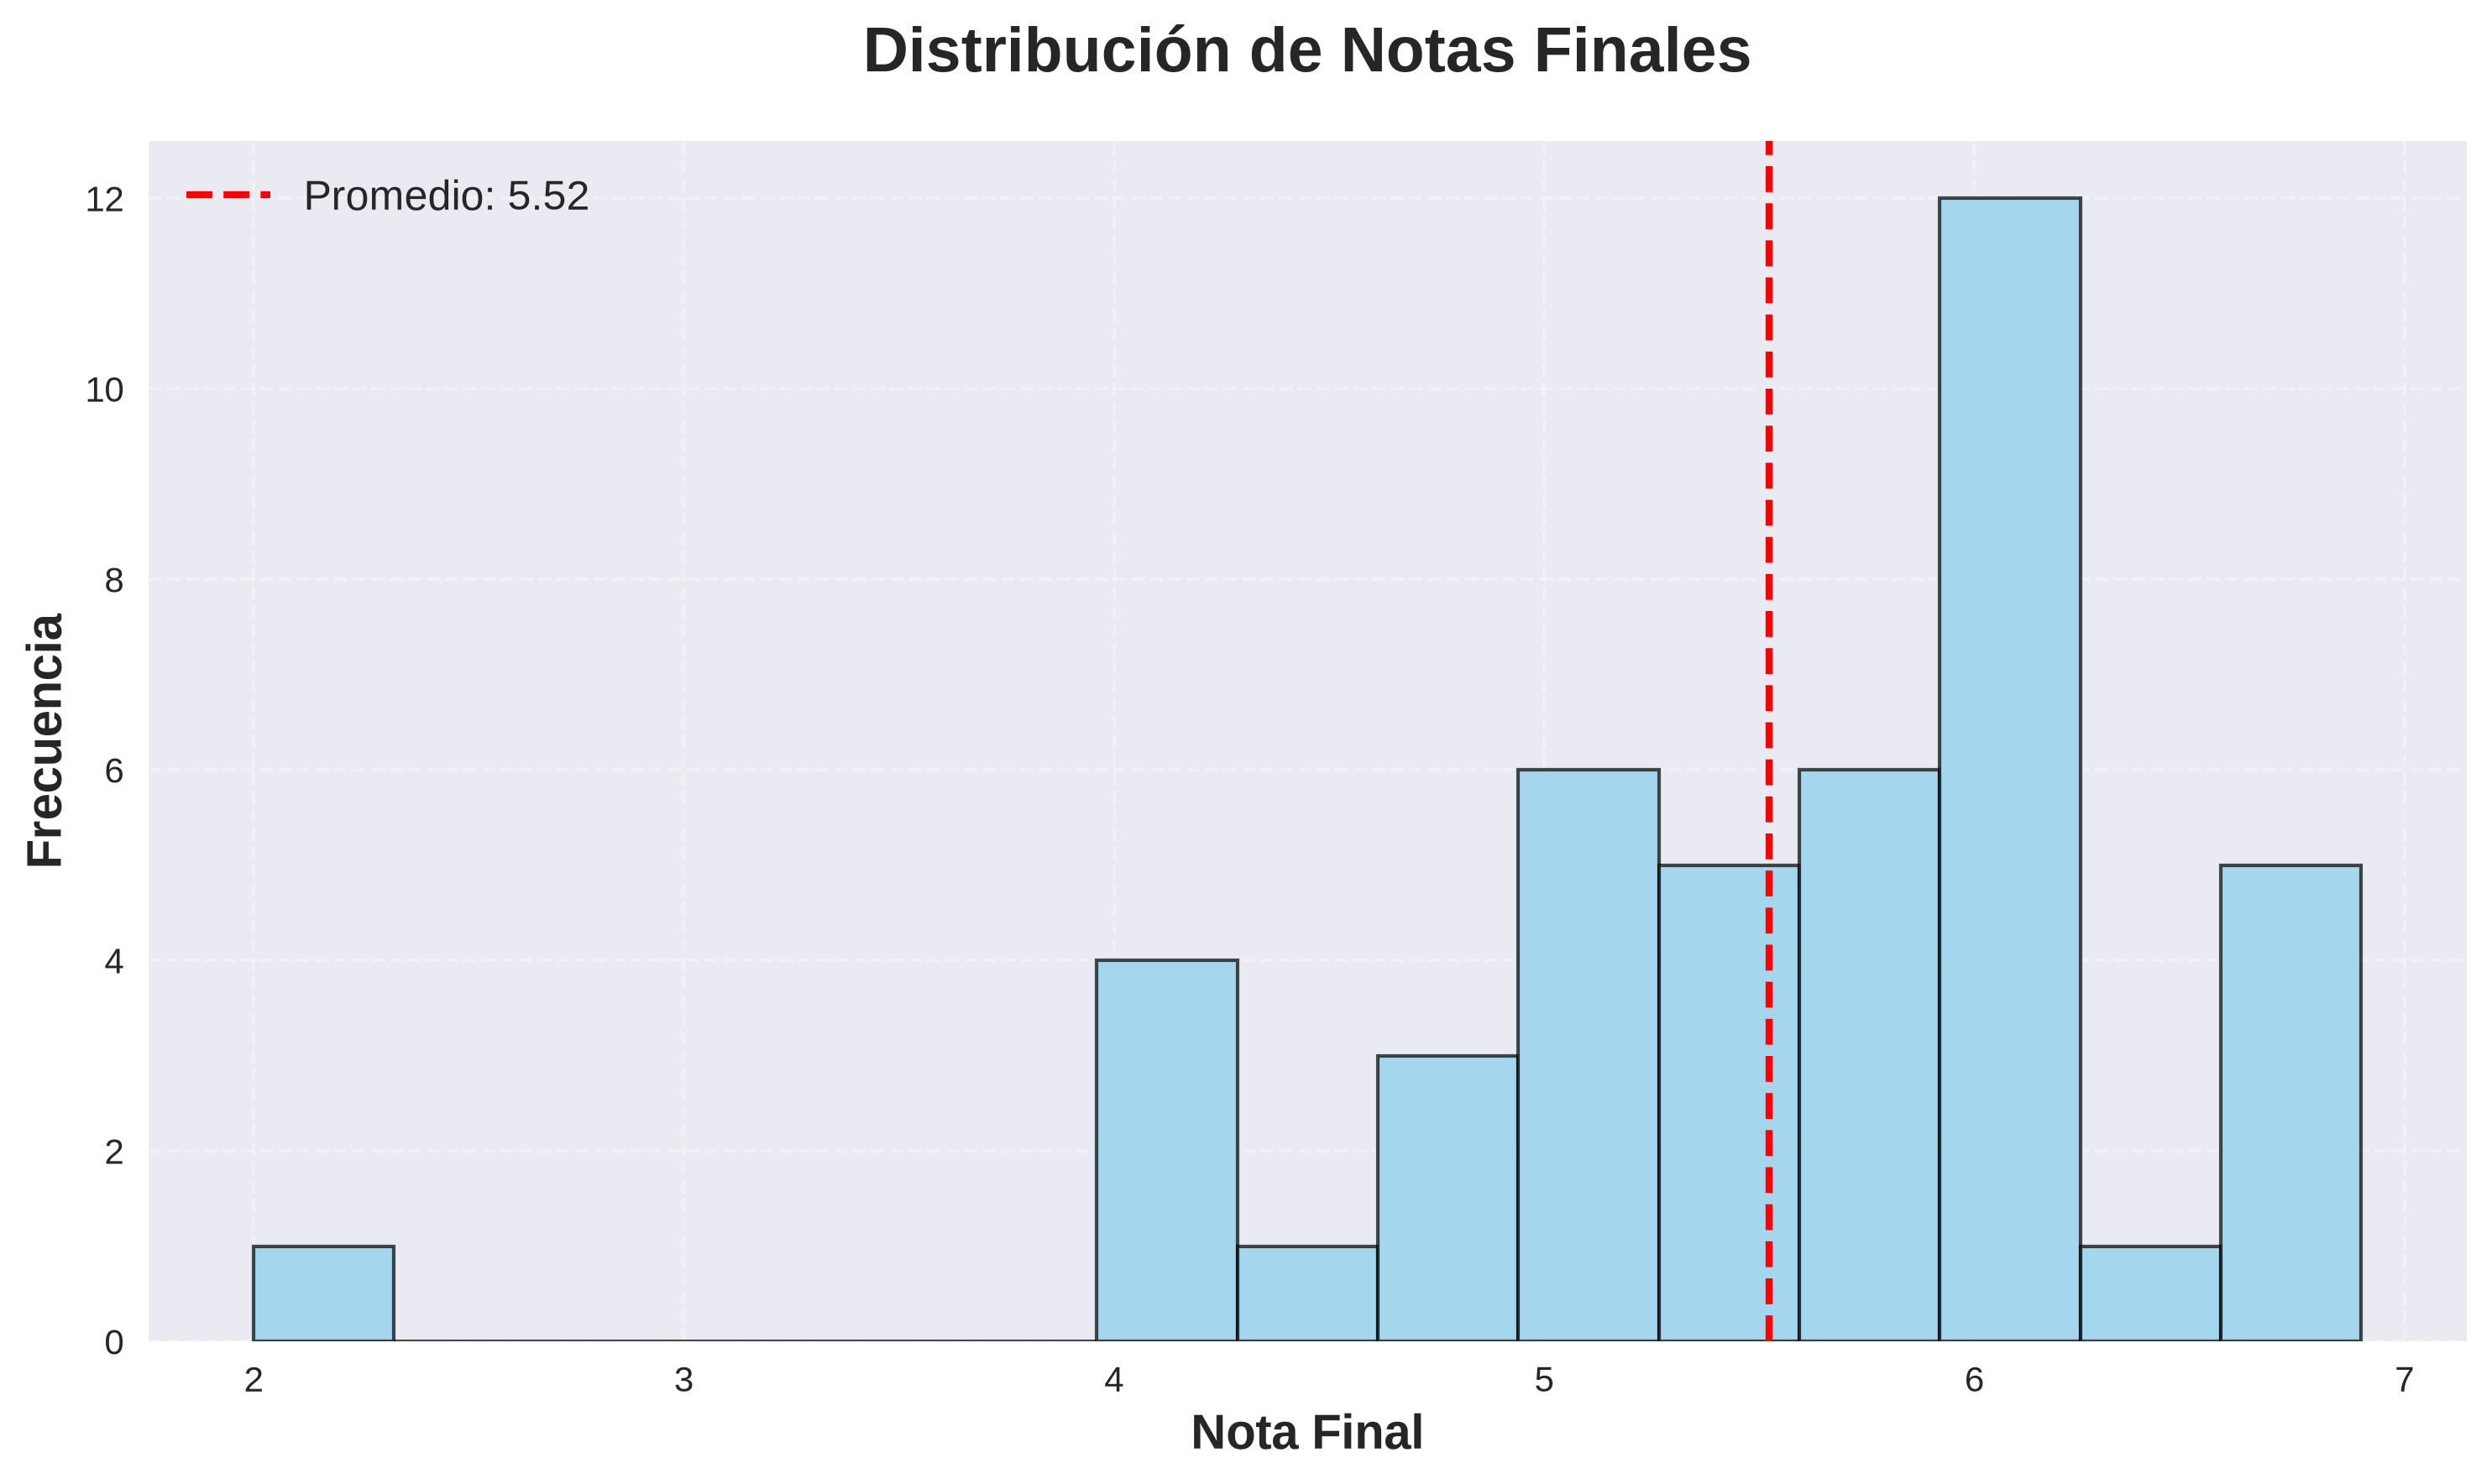
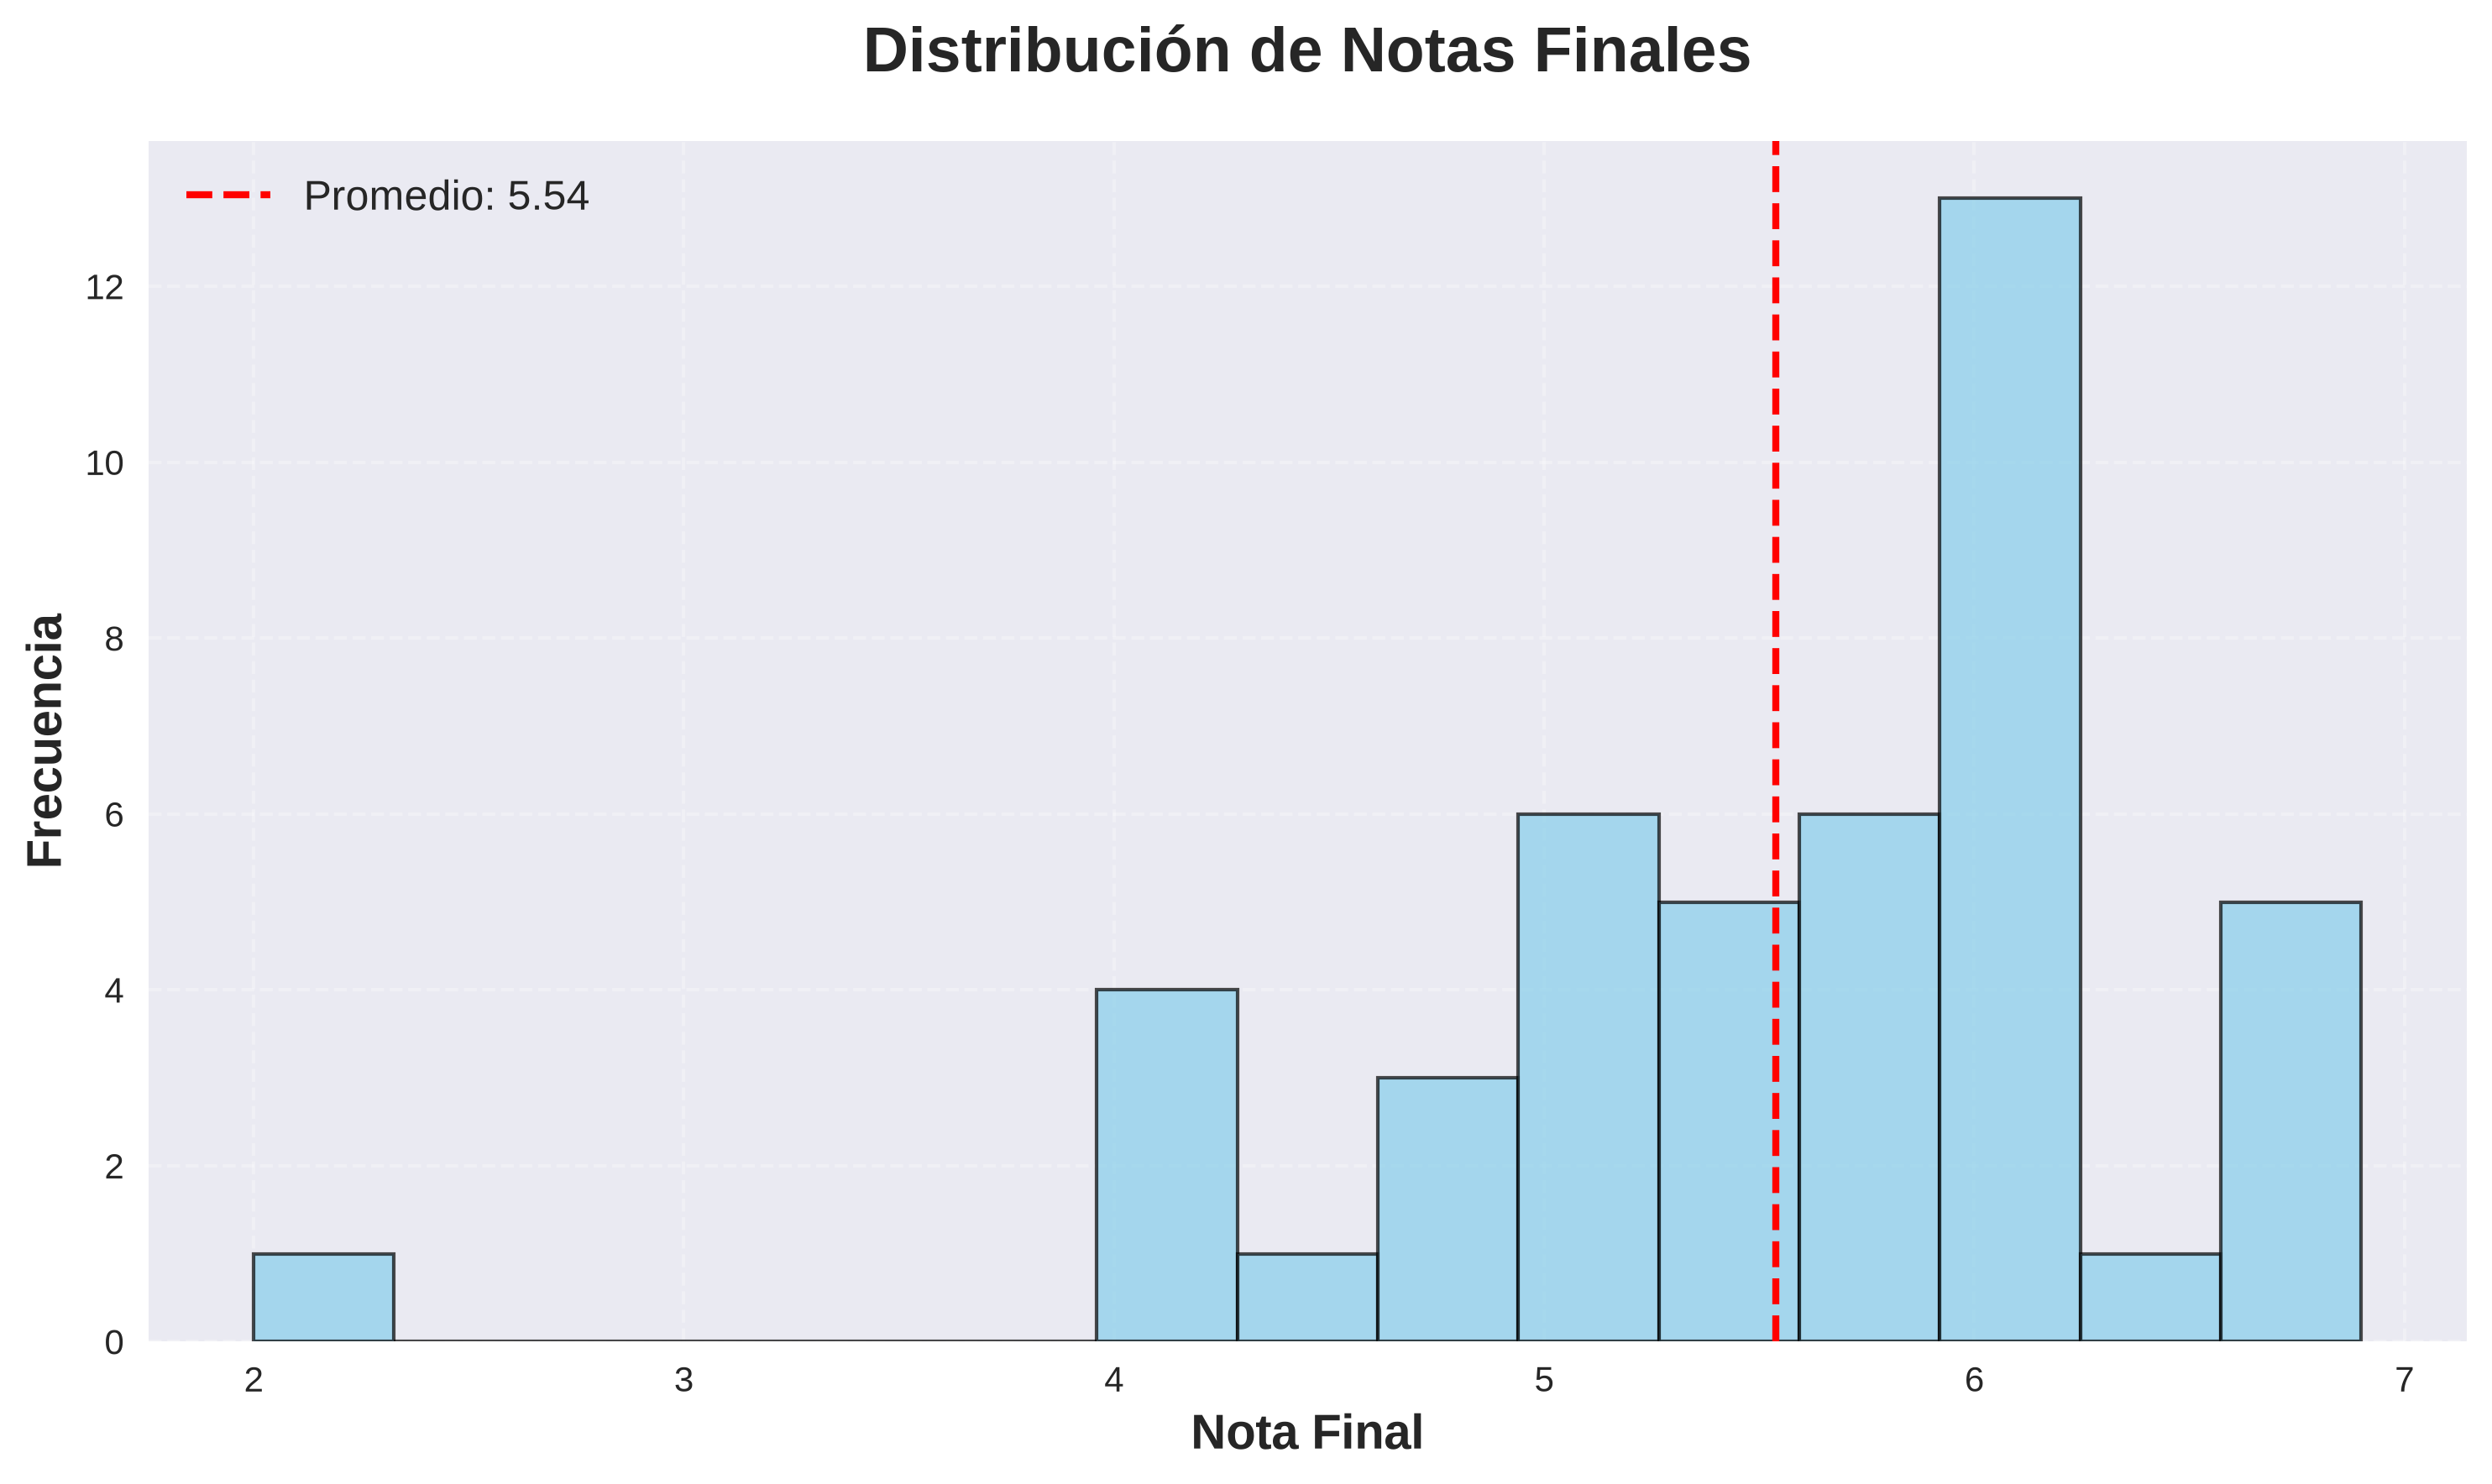
auto: actualizar notas y gráficos

diff --git a/dashboard/ramos_con_detalles.js b/dashboard/ramos_con_detalles.js
@@ -1,2 +1,2 @@
 /* Archivo generado automáticamente por el scraper. No editar a mano. */
-window.ramosData = {"ramos_con_detalles": [{"nombre": "HACIA UNA NUEVA CULTURA EMPRESARIAL", "nota_final": 5.9, "id_curso": "01005356", "componentes": [{"nombre": "Parcial", "porcentaje": "30%", "nota": 6.0}, {"nombre": "Parcial", "porcentaje": "30%", "nota": 7.0}, {"nombre": "Parcial", "porcentaje": "40%", "nota": 5.0}], "semestre": "Semestre 2 (Pre) 2025"}, {"nombre": "MODULO INTEGRADOR DE LICENCIATURA (PRACT", "nota_final": 6.1, "id_curso": "01003110", "componentes": [{"nombre": "Parcial", "porcentaje": "30%", "nota": 5.8}, {"nombre": "Parcial", "porcentaje": "30%", "nota": 6.4}, {"nombre": "Parcial", "porcentaje": "40%", "nota": 6.2}], "semestre": "Semestre 2 (Pre) 2025"}, {"nombre": "CONTABILIDAD Y FINANZAS", "nota_final": 4.0, "id_curso": "01003111", "componentes": [{"nombre": "Parcial", "porcentaje": "20%", "nota": 4.0}, {"nombre": "Parcial", "porcentaje": "20%", "nota": 5.9}, {"nombre": "Parcial", "porcentaje": "30%", "nota": 2.5}, {"nombre": "Parcial", "porcentaje": "30%", "nota": 4.1}], "semestre": "Semestre 2 (Pre) 2025"}, {"nombre": "RECURSOS HUMANOS Y LEGISLACIÓN", "nota_final": 6.2, "id_curso": "01003120", "componentes": [{"nombre": "Parcial", "porcentaje": "20%", "nota": 5.4}, {"nombre": "Parcial", "porcentaje": "25%", "nota": 6.5}, {"nombre": "Parcial", "porcentaje": "25%", "nota": 6.0}, {"nombre": "Parcial", "porcentaje": "30%", "nota": 6.6}], "semestre": "Semestre 2 (Pre) 2025"}, {"nombre": "INGENIERIA DE SOFTWARE I", "nota_final": 6.1, "id_curso": "01003113", "componentes": [{"nombre": "Parcial", "porcentaje": "10%", "nota": 6.3}, {"nombre": "Parcial", "porcentaje": "10%", "nota": 6.2}, {"nombre": "Parcial", "porcentaje": "20%", "nota": 7.0}, {"nombre": "Parcial", "porcentaje": "30%", "nota": 5.3}, {"nombre": "Parcial", "porcentaje": "30%", "nota": 6.2}], "semestre": "Semestre 2 (Pre) 2025"}, {"nombre": "ELECTIVO I: TALLER DE UI Y UX", "nota_final": 6.9, "id_curso": "01011131", "componentes": [{"nombre": "Parcial", "porcentaje": "20%", "nota": 7.0}, {"nombre": "Parcial", "porcentaje": "40%", "nota": 6.9}, {"nombre": "Parcial", "porcentaje": "40%", "nota": 6.8}], "semestre": "Semestre 2 (Pre) 2025"}, {"nombre": "METODOLOGIA DE LA INVESTIGACIÓN", "nota_final": 5.9, "id_curso": "01003105", "componentes": [{"nombre": "Parcial", "porcentaje": "30%", "nota": 5.5}, {"nombre": "Parcial", "porcentaje": "30%", "nota": 6.7}, {"nombre": "Parcial", "porcentaje": "40%", "nota": 5.5}], "semestre": "Semestre 1 (Pre) 2025"}, {"nombre": "SISTEMAS DE INFORMACIÓN", "nota_final": 5.8, "id_curso": "01003108", "componentes": [{"nombre": "Parcial", "porcentaje": "30%", "nota": 6.3}, {"nombre": "Parcial", "porcentaje": "30%", "nota": 7.0}, {"nombre": "Parcial", "porcentaje": "40%", "nota": 4.4}], "semestre": "Semestre 1 (Pre) 2025"}, {"nombre": "ECONOMIA", "nota_final": 5.2, "id_curso": "01003106", "componentes": [{"nombre": "Parcial", "porcentaje": "25%", "nota": 6.6}, {"nombre": "Parcial", "porcentaje": "25%", "nota": 6.0}, {"nombre": "Parcial", "porcentaje": "25%", "nota": 7.0}, {"nombre": "Parcial", "porcentaje": "25%", "nota": 1.0}], "semestre": "Semestre 1 (Pre) 2025"}, {"nombre": "CALCULO I", "nota_final": null, "id_curso": "N/A", "componentes": [], "semestre": "Semestre 1 (Pre) 2021", "error": "Message: \nStacktrace:\n#0 0x55fedd4083da <unknown>\n#1 0x55fedcdea139 <unknown>\n#2 0x55fedce3e884 <unknown>\n#3 0x55fedce3ead1 <unknown>\n#4 0x55fedce89974 <unknown>\n#5 0x55fedce86b5c <unknown>\n#6 0x55fedce31e4f <unknown>\n#7 0x55fedce32c31 <unknown>\n#8 0x55fedd3ce9f7 <unknown>\n#9 0x55fedd3cd203 <unknown>\n#10 0x55fedd3b7f16 <unknown>\n#11 0x55fedd3cdd9a <unknown>\n#12 0x55fedd39feb0 <unknown>\n#13 0x55fedd3f4d58 <unknown>\n#14 0x55fedd3f4ef5 <unknown>\n#15 0x55fedd406f5e <unknown>\n#16 0x7fd13129caa4 <unknown>\n#17 0x7fd131329c6c <unknown>\n"}, {"nombre": "COMPUTACIÓN NUMÉRICA", "nota_final": 4.1, "id_curso": "01003100", "componentes": [{"nombre": "Parcial", "porcentaje": "15%", "nota": 6.5}, {"nombre": "Parcial", "porcentaje": "15%", "nota": 7.0}, {"nombre": "Parcial", "porcentaje": "20%", "nota": 6.8}, {"nombre": "Parcial", "porcentaje": "20%", "nota": 2.0}, {"nombre": "Parcial", "porcentaje": "30%", "nota": 1.0}], "semestre": "Semestre 2 (Pre) 2024"}, {"nombre": "INVESTIGACIÓN DE OPERACIONES", "nota_final": 6.0, "id_curso": "01003101", "componentes": [{"nombre": "Parcial", "porcentaje": "15%", "nota": 7.0}, {"nombre": "Parcial", "porcentaje": "15%", "nota": 5.3}, {"nombre": "Parcial", "porcentaje": "20%", "nota": 5.8}, {"nombre": "Parcial", "porcentaje": "20%", "nota": 6.9}, {"nombre": "Parcial", "porcentaje": "30%", "nota": 5.5}], "semestre": "Semestre 2 (Pre) 2024"}, {"nombre": "REDES AVANZADAS", "nota_final": 6.7, "id_curso": "01003114", "componentes": [{"nombre": "Parcial", "porcentaje": "45%", "nota": 6.7}, {"nombre": "Parcial", "porcentaje": "55%", "nota": 6.7}], "semestre": "Semestre 2 (Pre) 2024"}, {"nombre": "INTELIGENCIA ARTIFICIAL", "nota_final": 4.8, "id_curso": "01003112", "componentes": [{"nombre": "Parcial", "porcentaje": "10%", "nota": 5.9}, {"nombre": "Parcial", "porcentaje": "10%", "nota": 7.0}, {"nombre": "Parcial", "porcentaje": "20%", "nota": 5.3}, {"nombre": "Parcial", "porcentaje": "30%", "nota": 4.0}, {"nombre": "Parcial", "porcentaje": "30%", "nota": 4.0}], "semestre": "Semestre 2 (Pre) 2024"}, {"nombre": "ECUACIONES DIFERENCIALES", "nota_final": 4.2, "id_curso": "01003090", "componentes": [{"nombre": "Parcial", "porcentaje": "15%", "nota": 4.0}, {"nombre": "Parcial", "porcentaje": "15%", "nota": 5.0}, {"nombre": "Parcial", "porcentaje": "20%", "nota": 3.7}, {"nombre": "Parcial", "porcentaje": "20%", "nota": 4.3}, {"nombre": "Parcial", "porcentaje": "30%", "nota": 4.2}], "semestre": "Semestre 2 (Pre) 2024"}, {"nombre": "MODULO INTEGRADOR CIENCIAS BÁSICAS", "nota_final": 6.2, "id_curso": "01003094", "componentes": [{"nombre": "Parcial", "porcentaje": "40%", "nota": 6.1}, {"nombre": "Parcial", "porcentaje": "60%", "nota": 6.2}], "semestre": "Semestre 2 (Pre) 2024"}, {"nombre": "CALCULO III", "nota_final": 2.0, "id_curso": "01003085", "componentes": [{"nombre": "Parcial", "porcentaje": "20%", "nota": 2.2}, {"nombre": "Parcial", "porcentaje": "25%", "nota": 2.4}, {"nombre": "Parcial", "porcentaje": "25%", "nota": 2.2}, {"nombre": "Parcial", "porcentaje": "30%", "nota": 1.3}], "semestre": "Semestre 1 (Pre) 2023"}, {"nombre": "COMUNICACIÓN DE DATOS Y REDES", "nota_final": 5.3, "id_curso": "01003109", "componentes": [{"nombre": "Parcial", "porcentaje": "15%", "nota": 5.3}, {"nombre": "Parcial", "porcentaje": "15%", "nota": 5.3}, {"nombre": "Parcial", "porcentaje": "20%", "nota": 5.3}, {"nombre": "Parcial", "porcentaje": "20%", "nota": 5.3}, {"nombre": "Parcial", "porcentaje": "30%", "nota": 5.3}], "semestre": "Semestre 1 (Pre) 2024"}, {"nombre": "DISEÑO Y ANALISIS DE ALGORITMOS", "nota_final": 5.4, "id_curso": "01003107", "componentes": [{"nombre": "Parcial", "porcentaje": "30%", "nota": 6.0}, {"nombre": "Parcial", "porcentaje": "70%", "nota": 5.2}], "semestre": "Semestre 1 (Pre) 2024"}, {"nombre": "SISTEMAS OPERATIVOS", "nota_final": 5.3, "id_curso": "01003104", "componentes": [{"nombre": "Parcial", "porcentaje": "25%", "nota": 5.5}, {"nombre": "Parcial", "porcentaje": "35%", "nota": 6.1}, {"nombre": "Parcial", "porcentaje": "40%", "nota": 4.4}], "semestre": "Semestre 2 (Pre) 2023"}, {"nombre": "TEORÍA DE LA COMPUTACION", "nota_final": 4.5, "id_curso": "01003102", "componentes": [{"nombre": "Parcial", "porcentaje": "25%", "nota": 5.9}, {"nombre": "Parcial", "porcentaje": "25%", "nota": 6.7}, {"nombre": "Parcial", "porcentaje": "25%", "nota": 4.2}, {"nombre": "Parcial", "porcentaje": "25%", "nota": 1.0}], "semestre": "Semestre 2 (Pre) 2023"}, {"nombre": "BASE DE DATOS", "nota_final": 4.9, "id_curso": "01003103", "componentes": [{"nombre": "Parcial", "porcentaje": "30%", "nota": 3.6}, {"nombre": "Parcial", "porcentaje": "30%", "nota": 5.7}, {"nombre": "Parcial", "porcentaje": "40%", "nota": 5.3}], "semestre": "Semestre 2 (Pre) 2023"}, {"nombre": "ETICA CRISTIANA", "nota_final": 5.3, "id_curso": "01005880", "componentes": [{"nombre": "Parcial", "porcentaje": "30%", "nota": 5.0}, {"nombre": "Parcial", "porcentaje": "30%", "nota": 6.5}, {"nombre": "Parcial", "porcentaje": "40%", "nota": 4.5}], "semestre": "Semestre 2 (Pre) 2023"}, {"nombre": "INTRODUCCIÓN A LA FE", "nota_final": 5.1, "id_curso": "01005831", "componentes": [{"nombre": "Parcial", "porcentaje": "20%", "nota": 6.8}, {"nombre": "Parcial", "porcentaje": "25%", "nota": 6.6}, {"nombre": "Parcial", "porcentaje": "25%", "nota": 1.0}, {"nombre": "Parcial", "porcentaje": "30%", "nota": 6.0}], "semestre": "Semestre 1 (Pre) 2023"}, {"nombre": "TALLER DE CIRCUITOS DIGITALES", "nota_final": 6.1, "id_curso": "01003099", "componentes": [{"nombre": "Parcial", "porcentaje": "20%", "nota": 6.0}, {"nombre": "Parcial", "porcentaje": "20%", "nota": 6.6}, {"nombre": "Parcial", "porcentaje": "20%", "nota": 6.0}, {"nombre": "Parcial", "porcentaje": "40%", "nota": 6.0}], "semestre": "Semestre 1 (Pre) 2023"}, {"nombre": "MODELAMIENTO DE DATOS", "nota_final": 4.0, "id_curso": "01003098", "componentes": [{"nombre": "Parcial", "porcentaje": "20%", "nota": 3.8}, {"nombre": "Parcial", "porcentaje": "40%", "nota": 5.5}, {"nombre": "Parcial", "porcentaje": "40%", "nota": 2.7}], "semestre": "Semestre 1 (Pre) 2023"}, {"nombre": "FISICA III", "nota_final": 6.8, "id_curso": "01003095", "componentes": [{"nombre": "Parcial", "porcentaje": "20%", "nota": 6.5}, {"nombre": "Parcial", "porcentaje": "20%", "nota": 7.0}, {"nombre": "Parcial", "porcentaje": "30%", "nota": 6.8}, {"nombre": "Parcial", "porcentaje": "30%", "nota": 6.8}], "semestre": "Semestre 1 (Pre) 2023"}, {"nombre": "ESTRUCTURAS DISCRETAS", "nota_final": 5.2, "id_curso": "01003097", "componentes": [{"nombre": "Parcial", "porcentaje": "15%", "nota": 4.8}, {"nombre": "Parcial", "porcentaje": "15%", "nota": 4.8}, {"nombre": "Parcial", "porcentaje": "20%", "nota": 4.8}, {"nombre": "Parcial", "porcentaje": "20%", "nota": 5.8}, {"nombre": "Parcial", "porcentaje": "30%", "nota": 5.4}], "semestre": "Semestre 1 (Pre) 2023"}, {"nombre": "FISICA II", "nota_final": 5.3, "id_curso": "01003089", "componentes": [{"nombre": "Parcial", "porcentaje": "30%", "nota": 5.3}, {"nombre": "Parcial", "porcentaje": "35%", "nota": 4.1}, {"nombre": "Parcial", "porcentaje": "35%", "nota": 6.4}], "semestre": "Semestre 2 (Pre) 2022"}, {"nombre": "LÓGICA PARA CIENCIA DE LA COMPUTACIÓN", "nota_final": 6.4, "id_curso": "01003092", "componentes": [{"nombre": "Parcial", "porcentaje": "30%", "nota": 5.6}, {"nombre": "Parcial", "porcentaje": "35%", "nota": 7.0}, {"nombre": "Parcial", "porcentaje": "35%", "nota": 6.6}], "semestre": "Semestre 2 (Pre) 2022"}, {"nombre": "PROGRAMACIÓN AVANZADA", "nota_final": 5.1, "id_curso": "01003091", "componentes": [{"nombre": "Parcial", "porcentaje": "20%", "nota": 4.0}, {"nombre": "Parcial", "porcentaje": "20%", "nota": 7.0}, {"nombre": "Parcial", "porcentaje": "30%", "nota": 4.6}, {"nombre": "Parcial", "porcentaje": "30%", "nota": 5.1}], "semestre": "Semestre 2 (Pre) 2022"}, {"nombre": "ARQUITECTURA DE COMPUTADORES", "nota_final": 5.8, "id_curso": "01003093", "componentes": [{"nombre": "Parcial", "porcentaje": "15%", "nota": 2.9}, {"nombre": "Parcial", "porcentaje": "20%", "nota": 7.0}, {"nombre": "Parcial", "porcentaje": "20%", "nota": 7.0}, {"nombre": "Parcial", "porcentaje": "20%", "nota": 5.9}, {"nombre": "Parcial", "porcentaje": "25%", "nota": 5.7}], "semestre": "Semestre 2 (Pre) 2022"}, {"nombre": "ALGEBRA II", "nota_final": null, "id_curso": "01003080", "componentes": [{"nombre": "Parcial", "porcentaje": "15%", "nota": null}, {"nombre": "Parcial", "porcentaje": "15%", "nota": null}, {"nombre": "Parcial", "porcentaje": "20%", "nota": null}, {"nombre": "Parcial", "porcentaje": "20%", "nota": null}, {"nombre": "Parcial", "porcentaje": "30%", "nota": null}], "semestre": "Semestre 2 (Pre) 2021"}, {"nombre": "ESTRUCTURAS DE DATOS", "nota_final": 5.7, "id_curso": "01003086", "componentes": [{"nombre": "Parcial", "porcentaje": "20%", "nota": 3.8}, {"nombre": "Parcial", "porcentaje": "40%", "nota": 6.5}, {"nombre": "Parcial", "porcentaje": "40%", "nota": 5.8}], "semestre": "Semestre 1 (Pre) 2022"}, {"nombre": "INGLES III", "nota_final": 6.2, "id_curso": "01005809", "componentes": [{"nombre": "Parcial", "porcentaje": "50%", "nota": 6.7}, {"nombre": "Parcial", "porcentaje": "50%", "nota": 5.6}], "semestre": "Semestre 1 (Pre) 2022"}, {"nombre": "EXPRESIÓN ORAL EN INGENIERIA", "nota_final": 6.6, "id_curso": "01003087", "componentes": [{"nombre": "Parcial", "porcentaje": "25%", "nota": 7.0}, {"nombre": "Parcial", "porcentaje": "25%", "nota": 7.0}, {"nombre": "Parcial", "porcentaje": "25%", "nota": 5.5}, {"nombre": "Parcial", "porcentaje": "25%", "nota": 6.8}], "semestre": "Semestre 1 (Pre) 2022"}, {"nombre": "FISICA I", "nota_final": 4.7, "id_curso": "01003084", "componentes": [{"nombre": "Parcial", "porcentaje": "15%", "nota": 6.2}, {"nombre": "Parcial", "porcentaje": "15%", "nota": 6.3}, {"nombre": "Parcial", "porcentaje": "20%", "nota": 1.3}, {"nombre": "Parcial", "porcentaje": "20%", "nota": 6.0}, {"nombre": "Parcial", "porcentaje": "30%", "nota": 4.6}], "semestre": "Semestre 1 (Pre) 2022"}, {"nombre": "CIRCUITOS DIGITALES", "nota_final": 6.2, "id_curso": "01003088", "componentes": [{"nombre": "Parcial", "porcentaje": "25%", "nota": 5.3}, {"nombre": "Parcial", "porcentaje": "25%", "nota": 7.0}, {"nombre": "Parcial", "porcentaje": "25%", "nota": 6.3}, {"nombre": "Parcial", "porcentaje": "25%", "nota": 6.2}], "semestre": "Semestre 1 (Pre) 2022"}, {"nombre": "INGLÉS II", "nota_final": 6.0, "id_curso": "01005759", "componentes": [{"nombre": "Parcial", "porcentaje": "50%", "nota": 6.0}, {"nombre": "Parcial", "porcentaje": "50%", "nota": 6.0}], "semestre": "Semestre 2 (Pre) 2021"}, {"nombre": "COMPRENSIÓN LECTORA Y PROD. DE TEXTOS", "nota_final": 5.1, "id_curso": "01003083", "componentes": [{"nombre": "Parcial", "porcentaje": "25%", "nota": 5.3}, {"nombre": "Parcial", "porcentaje": "25%", "nota": 5.5}, {"nombre": "Parcial", "porcentaje": "25%", "nota": 3.0}, {"nombre": "Parcial", "porcentaje": "25%", "nota": 6.5}], "semestre": "Semestre 2 (Pre) 2021"}, {"nombre": "CALCULO II", "nota_final": 6.0, "id_curso": "01003081", "componentes": [{"nombre": "Parcial", "porcentaje": "20%", "nota": 6.6}, {"nombre": "Parcial", "porcentaje": "20%", "nota": 5.5}, {"nombre": "Parcial", "porcentaje": "30%", "nota": 5.9}, {"nombre": "Parcial", "porcentaje": "30%", "nota": 6.0}], "semestre": "Semestre 2 (Pre) 2021"}, {"nombre": "PROGRAMACIÓN", "nota_final": 6.6, "id_curso": "01003082", "componentes": [{"nombre": "Parcial", "porcentaje": "20%", "nota": 7.0}, {"nombre": "Parcial", "porcentaje": "20%", "nota": 7.0}, {"nombre": "Parcial", "porcentaje": "20%", "nota": 5.8}, {"nombre": "Parcial", "porcentaje": "40%", "nota": 6.5}], "semestre": "Semestre 2 (Pre) 2021"}, {"nombre": "GESTIÓN INFORMÁTICA I", "nota_final": 6.2, "id_curso": "01003116", "componentes": [{"nombre": "Parcial", "porcentaje": "20%", "nota": 6.8}, {"nombre": "Parcial", "porcentaje": "20%", "nota": 5.2}, {"nombre": "Parcial", "porcentaje": "30%", "nota": 5.8}, {"nombre": "Parcial", "porcentaje": "30%", "nota": 7.0}], "semestre": "Semestre 1 (Pre) 2026"}, {"nombre": "FORM. Y EVAL. DE PROYECTOS INFORMÁTICOS", "nota_final": 5.8, "id_curso": "01003115", "componentes": [{"nombre": "Parcial", "porcentaje": "25%", "nota": 3.6}, {"nombre": "Parcial", "porcentaje": "35%", "nota": 6.7}, {"nombre": "Parcial", "porcentaje": "40%", "nota": 6.3}], "semestre": "Semestre 1 (Pre) 2026"}, {"nombre": "SISTEMAS DISTRIBUIDOS", "nota_final": null, "id_curso": "01003119", "componentes": [{"nombre": "Parcial", "porcentaje": "30%", "nota": 5.2}, {"nombre": "Parcial", "porcentaje": "30%", "nota": null}, {"nombre": "Parcial", "porcentaje": "40%", "nota": null}], "semestre": "Semestre 1 (Pre) 2026"}, {"nombre": "INGENIERÍA DE SOFTWARE II", "nota_final": 6.2, "id_curso": "01003118", "componentes": [{"nombre": "Parcial", "porcentaje": "20%", "nota": 6.5}, {"nombre": "Parcial", "porcentaje": "20%", "nota": 6.3}, {"nombre": "Parcial", "porcentaje": "30%", "nota": 6.0}, {"nombre": "Parcial", "porcentaje": "30%", "nota": 6.2}], "semestre": "Semestre 1 (Pre) 2026"}, {"nombre": "CALIDAD Y PRODUCTIVIDAD DE SOFTWARE", "nota_final": 5.1, "id_curso": "01003117", "componentes": [{"nombre": "Parcial", "porcentaje": "20%", "nota": 5.0}, {"nombre": "Parcial", "porcentaje": "25%", "nota": 3.3}, {"nombre": "Parcial", "porcentaje": "25%", "nota": 5.6}, {"nombre": "Parcial", "porcentaje": "30%", "nota": 6.1}], "semestre": "Semestre 1 (Pre) 2026"}, {"nombre": "IMPLEMENTACION DE LA R.S.E. Y NUEVOS DES", "nota_final": null, "id_curso": "01005358", "componentes": [{"nombre": "Parcial", "porcentaje": "30%", "nota": 7.0}, {"nombre": "Parcial", "porcentaje": "30%", "nota": 5.2}, {"nombre": "Parcial", "porcentaje": "40%", "nota": 6.4}], "semestre": "Semestre 1 (Pre) 2026"}]};
+window.ramosData = {"ramos_con_detalles": [{"nombre": "HACIA UNA NUEVA CULTURA EMPRESARIAL", "nota_final": 5.9, "id_curso": "01005356", "componentes": [{"nombre": "Parcial", "porcentaje": "30%", "nota": 6.0}, {"nombre": "Parcial", "porcentaje": "30%", "nota": 7.0}, {"nombre": "Parcial", "porcentaje": "40%", "nota": 5.0}], "semestre": "Semestre 2 (Pre) 2025"}, {"nombre": "MODULO INTEGRADOR DE LICENCIATURA (PRACT", "nota_final": 6.1, "id_curso": "01003110", "componentes": [{"nombre": "Parcial", "porcentaje": "30%", "nota": 5.8}, {"nombre": "Parcial", "porcentaje": "30%", "nota": 6.4}, {"nombre": "Parcial", "porcentaje": "40%", "nota": 6.2}], "semestre": "Semestre 2 (Pre) 2025"}, {"nombre": "CONTABILIDAD Y FINANZAS", "nota_final": 4.0, "id_curso": "01003111", "componentes": [{"nombre": "Parcial", "porcentaje": "20%", "nota": 4.0}, {"nombre": "Parcial", "porcentaje": "20%", "nota": 5.9}, {"nombre": "Parcial", "porcentaje": "30%", "nota": 2.5}, {"nombre": "Parcial", "porcentaje": "30%", "nota": 4.1}], "semestre": "Semestre 2 (Pre) 2025"}, {"nombre": "RECURSOS HUMANOS Y LEGISLACIÓN", "nota_final": 6.2, "id_curso": "01003120", "componentes": [{"nombre": "Parcial", "porcentaje": "20%", "nota": 5.4}, {"nombre": "Parcial", "porcentaje": "25%", "nota": 6.5}, {"nombre": "Parcial", "porcentaje": "25%", "nota": 6.0}, {"nombre": "Parcial", "porcentaje": "30%", "nota": 6.6}], "semestre": "Semestre 2 (Pre) 2025"}, {"nombre": "INGENIERIA DE SOFTWARE I", "nota_final": 6.1, "id_curso": "01003113", "componentes": [{"nombre": "Parcial", "porcentaje": "10%", "nota": 6.3}, {"nombre": "Parcial", "porcentaje": "10%", "nota": 6.2}, {"nombre": "Parcial", "porcentaje": "20%", "nota": 7.0}, {"nombre": "Parcial", "porcentaje": "30%", "nota": 5.3}, {"nombre": "Parcial", "porcentaje": "30%", "nota": 6.2}], "semestre": "Semestre 2 (Pre) 2025"}, {"nombre": "ELECTIVO I: TALLER DE UI Y UX", "nota_final": 6.9, "id_curso": "01011131", "componentes": [{"nombre": "Parcial", "porcentaje": "20%", "nota": 7.0}, {"nombre": "Parcial", "porcentaje": "40%", "nota": 6.9}, {"nombre": "Parcial", "porcentaje": "40%", "nota": 6.8}], "semestre": "Semestre 2 (Pre) 2025"}, {"nombre": "METODOLOGIA DE LA INVESTIGACIÓN", "nota_final": 5.9, "id_curso": "01003105", "componentes": [{"nombre": "Parcial", "porcentaje": "30%", "nota": 5.5}, {"nombre": "Parcial", "porcentaje": "30%", "nota": 6.7}, {"nombre": "Parcial", "porcentaje": "40%", "nota": 5.5}], "semestre": "Semestre 1 (Pre) 2025"}, {"nombre": "SISTEMAS DE INFORMACIÓN", "nota_final": 5.8, "id_curso": "01003108", "componentes": [{"nombre": "Parcial", "porcentaje": "30%", "nota": 6.3}, {"nombre": "Parcial", "porcentaje": "30%", "nota": 7.0}, {"nombre": "Parcial", "porcentaje": "40%", "nota": 4.4}], "semestre": "Semestre 1 (Pre) 2025"}, {"nombre": "ECONOMIA", "nota_final": 5.2, "id_curso": "01003106", "componentes": [{"nombre": "Parcial", "porcentaje": "25%", "nota": 6.6}, {"nombre": "Parcial", "porcentaje": "25%", "nota": 6.0}, {"nombre": "Parcial", "porcentaje": "25%", "nota": 7.0}, {"nombre": "Parcial", "porcentaje": "25%", "nota": 1.0}], "semestre": "Semestre 1 (Pre) 2025"}, {"nombre": "CALCULO I", "nota_final": null, "id_curso": "N/A", "componentes": [], "semestre": "Semestre 1 (Pre) 2021", "error": "Message: \nStacktrace:\n#0 0x55fedd4083da <unknown>\n#1 0x55fedcdea139 <unknown>\n#2 0x55fedce3e884 <unknown>\n#3 0x55fedce3ead1 <unknown>\n#4 0x55fedce89974 <unknown>\n#5 0x55fedce86b5c <unknown>\n#6 0x55fedce31e4f <unknown>\n#7 0x55fedce32c31 <unknown>\n#8 0x55fedd3ce9f7 <unknown>\n#9 0x55fedd3cd203 <unknown>\n#10 0x55fedd3b7f16 <unknown>\n#11 0x55fedd3cdd9a <unknown>\n#12 0x55fedd39feb0 <unknown>\n#13 0x55fedd3f4d58 <unknown>\n#14 0x55fedd3f4ef5 <unknown>\n#15 0x55fedd406f5e <unknown>\n#16 0x7fd13129caa4 <unknown>\n#17 0x7fd131329c6c <unknown>\n"}, {"nombre": "COMPUTACIÓN NUMÉRICA", "nota_final": 4.1, "id_curso": "01003100", "componentes": [{"nombre": "Parcial", "porcentaje": "15%", "nota": 6.5}, {"nombre": "Parcial", "porcentaje": "15%", "nota": 7.0}, {"nombre": "Parcial", "porcentaje": "20%", "nota": 6.8}, {"nombre": "Parcial", "porcentaje": "20%", "nota": 2.0}, {"nombre": "Parcial", "porcentaje": "30%", "nota": 1.0}], "semestre": "Semestre 2 (Pre) 2024"}, {"nombre": "INVESTIGACIÓN DE OPERACIONES", "nota_final": 6.0, "id_curso": "01003101", "componentes": [{"nombre": "Parcial", "porcentaje": "15%", "nota": 7.0}, {"nombre": "Parcial", "porcentaje": "15%", "nota": 5.3}, {"nombre": "Parcial", "porcentaje": "20%", "nota": 5.8}, {"nombre": "Parcial", "porcentaje": "20%", "nota": 6.9}, {"nombre": "Parcial", "porcentaje": "30%", "nota": 5.5}], "semestre": "Semestre 2 (Pre) 2024"}, {"nombre": "REDES AVANZADAS", "nota_final": 6.7, "id_curso": "01003114", "componentes": [{"nombre": "Parcial", "porcentaje": "45%", "nota": 6.7}, {"nombre": "Parcial", "porcentaje": "55%", "nota": 6.7}], "semestre": "Semestre 2 (Pre) 2024"}, {"nombre": "INTELIGENCIA ARTIFICIAL", "nota_final": 4.8, "id_curso": "01003112", "componentes": [{"nombre": "Parcial", "porcentaje": "10%", "nota": 5.9}, {"nombre": "Parcial", "porcentaje": "10%", "nota": 7.0}, {"nombre": "Parcial", "porcentaje": "20%", "nota": 5.3}, {"nombre": "Parcial", "porcentaje": "30%", "nota": 4.0}, {"nombre": "Parcial", "porcentaje": "30%", "nota": 4.0}], "semestre": "Semestre 2 (Pre) 2024"}, {"nombre": "ECUACIONES DIFERENCIALES", "nota_final": 4.2, "id_curso": "01003090", "componentes": [{"nombre": "Parcial", "porcentaje": "15%", "nota": 4.0}, {"nombre": "Parcial", "porcentaje": "15%", "nota": 5.0}, {"nombre": "Parcial", "porcentaje": "20%", "nota": 3.7}, {"nombre": "Parcial", "porcentaje": "20%", "nota": 4.3}, {"nombre": "Parcial", "porcentaje": "30%", "nota": 4.2}], "semestre": "Semestre 2 (Pre) 2024"}, {"nombre": "MODULO INTEGRADOR CIENCIAS BÁSICAS", "nota_final": 6.2, "id_curso": "01003094", "componentes": [{"nombre": "Parcial", "porcentaje": "40%", "nota": 6.1}, {"nombre": "Parcial", "porcentaje": "60%", "nota": 6.2}], "semestre": "Semestre 2 (Pre) 2024"}, {"nombre": "CALCULO III", "nota_final": 2.0, "id_curso": "01003085", "componentes": [{"nombre": "Parcial", "porcentaje": "20%", "nota": 2.2}, {"nombre": "Parcial", "porcentaje": "25%", "nota": 2.4}, {"nombre": "Parcial", "porcentaje": "25%", "nota": 2.2}, {"nombre": "Parcial", "porcentaje": "30%", "nota": 1.3}], "semestre": "Semestre 1 (Pre) 2023"}, {"nombre": "COMUNICACIÓN DE DATOS Y REDES", "nota_final": 5.3, "id_curso": "01003109", "componentes": [{"nombre": "Parcial", "porcentaje": "15%", "nota": 5.3}, {"nombre": "Parcial", "porcentaje": "15%", "nota": 5.3}, {"nombre": "Parcial", "porcentaje": "20%", "nota": 5.3}, {"nombre": "Parcial", "porcentaje": "20%", "nota": 5.3}, {"nombre": "Parcial", "porcentaje": "30%", "nota": 5.3}], "semestre": "Semestre 1 (Pre) 2024"}, {"nombre": "DISEÑO Y ANALISIS DE ALGORITMOS", "nota_final": 5.4, "id_curso": "01003107", "componentes": [{"nombre": "Parcial", "porcentaje": "30%", "nota": 6.0}, {"nombre": "Parcial", "porcentaje": "70%", "nota": 5.2}], "semestre": "Semestre 1 (Pre) 2024"}, {"nombre": "SISTEMAS OPERATIVOS", "nota_final": 5.3, "id_curso": "01003104", "componentes": [{"nombre": "Parcial", "porcentaje": "25%", "nota": 5.5}, {"nombre": "Parcial", "porcentaje": "35%", "nota": 6.1}, {"nombre": "Parcial", "porcentaje": "40%", "nota": 4.4}], "semestre": "Semestre 2 (Pre) 2023"}, {"nombre": "TEORÍA DE LA COMPUTACION", "nota_final": 4.5, "id_curso": "01003102", "componentes": [{"nombre": "Parcial", "porcentaje": "25%", "nota": 5.9}, {"nombre": "Parcial", "porcentaje": "25%", "nota": 6.7}, {"nombre": "Parcial", "porcentaje": "25%", "nota": 4.2}, {"nombre": "Parcial", "porcentaje": "25%", "nota": 1.0}], "semestre": "Semestre 2 (Pre) 2023"}, {"nombre": "BASE DE DATOS", "nota_final": 4.9, "id_curso": "01003103", "componentes": [{"nombre": "Parcial", "porcentaje": "30%", "nota": 3.6}, {"nombre": "Parcial", "porcentaje": "30%", "nota": 5.7}, {"nombre": "Parcial", "porcentaje": "40%", "nota": 5.3}], "semestre": "Semestre 2 (Pre) 2023"}, {"nombre": "ETICA CRISTIANA", "nota_final": 5.3, "id_curso": "01005880", "componentes": [{"nombre": "Parcial", "porcentaje": "30%", "nota": 5.0}, {"nombre": "Parcial", "porcentaje": "30%", "nota": 6.5}, {"nombre": "Parcial", "porcentaje": "40%", "nota": 4.5}], "semestre": "Semestre 2 (Pre) 2023"}, {"nombre": "INTRODUCCIÓN A LA FE", "nota_final": 5.1, "id_curso": "01005831", "componentes": [{"nombre": "Parcial", "porcentaje": "20%", "nota": 6.8}, {"nombre": "Parcial", "porcentaje": "25%", "nota": 6.6}, {"nombre": "Parcial", "porcentaje": "25%", "nota": 1.0}, {"nombre": "Parcial", "porcentaje": "30%", "nota": 6.0}], "semestre": "Semestre 1 (Pre) 2023"}, {"nombre": "TALLER DE CIRCUITOS DIGITALES", "nota_final": 6.1, "id_curso": "01003099", "componentes": [{"nombre": "Parcial", "porcentaje": "20%", "nota": 6.0}, {"nombre": "Parcial", "porcentaje": "20%", "nota": 6.6}, {"nombre": "Parcial", "porcentaje": "20%", "nota": 6.0}, {"nombre": "Parcial", "porcentaje": "40%", "nota": 6.0}], "semestre": "Semestre 1 (Pre) 2023"}, {"nombre": "MODELAMIENTO DE DATOS", "nota_final": 4.0, "id_curso": "01003098", "componentes": [{"nombre": "Parcial", "porcentaje": "20%", "nota": 3.8}, {"nombre": "Parcial", "porcentaje": "40%", "nota": 5.5}, {"nombre": "Parcial", "porcentaje": "40%", "nota": 2.7}], "semestre": "Semestre 1 (Pre) 2023"}, {"nombre": "FISICA III", "nota_final": 6.8, "id_curso": "01003095", "componentes": [{"nombre": "Parcial", "porcentaje": "20%", "nota": 6.5}, {"nombre": "Parcial", "porcentaje": "20%", "nota": 7.0}, {"nombre": "Parcial", "porcentaje": "30%", "nota": 6.8}, {"nombre": "Parcial", "porcentaje": "30%", "nota": 6.8}], "semestre": "Semestre 1 (Pre) 2023"}, {"nombre": "ESTRUCTURAS DISCRETAS", "nota_final": 5.2, "id_curso": "01003097", "componentes": [{"nombre": "Parcial", "porcentaje": "15%", "nota": 4.8}, {"nombre": "Parcial", "porcentaje": "15%", "nota": 4.8}, {"nombre": "Parcial", "porcentaje": "20%", "nota": 4.8}, {"nombre": "Parcial", "porcentaje": "20%", "nota": 5.8}, {"nombre": "Parcial", "porcentaje": "30%", "nota": 5.4}], "semestre": "Semestre 1 (Pre) 2023"}, {"nombre": "FISICA II", "nota_final": 5.3, "id_curso": "01003089", "componentes": [{"nombre": "Parcial", "porcentaje": "30%", "nota": 5.3}, {"nombre": "Parcial", "porcentaje": "35%", "nota": 4.1}, {"nombre": "Parcial", "porcentaje": "35%", "nota": 6.4}], "semestre": "Semestre 2 (Pre) 2022"}, {"nombre": "LÓGICA PARA CIENCIA DE LA COMPUTACIÓN", "nota_final": 6.4, "id_curso": "01003092", "componentes": [{"nombre": "Parcial", "porcentaje": "30%", "nota": 5.6}, {"nombre": "Parcial", "porcentaje": "35%", "nota": 7.0}, {"nombre": "Parcial", "porcentaje": "35%", "nota": 6.6}], "semestre": "Semestre 2 (Pre) 2022"}, {"nombre": "PROGRAMACIÓN AVANZADA", "nota_final": 5.1, "id_curso": "01003091", "componentes": [{"nombre": "Parcial", "porcentaje": "20%", "nota": 4.0}, {"nombre": "Parcial", "porcentaje": "20%", "nota": 7.0}, {"nombre": "Parcial", "porcentaje": "30%", "nota": 4.6}, {"nombre": "Parcial", "porcentaje": "30%", "nota": 5.1}], "semestre": "Semestre 2 (Pre) 2022"}, {"nombre": "ARQUITECTURA DE COMPUTADORES", "nota_final": 5.8, "id_curso": "01003093", "componentes": [{"nombre": "Parcial", "porcentaje": "15%", "nota": 2.9}, {"nombre": "Parcial", "porcentaje": "20%", "nota": 7.0}, {"nombre": "Parcial", "porcentaje": "20%", "nota": 7.0}, {"nombre": "Parcial", "porcentaje": "20%", "nota": 5.9}, {"nombre": "Parcial", "porcentaje": "25%", "nota": 5.7}], "semestre": "Semestre 2 (Pre) 2022"}, {"nombre": "ALGEBRA II", "nota_final": null, "id_curso": "01003080", "componentes": [{"nombre": "Parcial", "porcentaje": "15%", "nota": null}, {"nombre": "Parcial", "porcentaje": "15%", "nota": null}, {"nombre": "Parcial", "porcentaje": "20%", "nota": null}, {"nombre": "Parcial", "porcentaje": "20%", "nota": null}, {"nombre": "Parcial", "porcentaje": "30%", "nota": null}], "semestre": "Semestre 2 (Pre) 2021"}, {"nombre": "ESTRUCTURAS DE DATOS", "nota_final": 5.7, "id_curso": "01003086", "componentes": [{"nombre": "Parcial", "porcentaje": "20%", "nota": 3.8}, {"nombre": "Parcial", "porcentaje": "40%", "nota": 6.5}, {"nombre": "Parcial", "porcentaje": "40%", "nota": 5.8}], "semestre": "Semestre 1 (Pre) 2022"}, {"nombre": "INGLES III", "nota_final": 6.2, "id_curso": "01005809", "componentes": [{"nombre": "Parcial", "porcentaje": "50%", "nota": 6.7}, {"nombre": "Parcial", "porcentaje": "50%", "nota": 5.6}], "semestre": "Semestre 1 (Pre) 2022"}, {"nombre": "EXPRESIÓN ORAL EN INGENIERIA", "nota_final": 6.6, "id_curso": "01003087", "componentes": [{"nombre": "Parcial", "porcentaje": "25%", "nota": 7.0}, {"nombre": "Parcial", "porcentaje": "25%", "nota": 7.0}, {"nombre": "Parcial", "porcentaje": "25%", "nota": 5.5}, {"nombre": "Parcial", "porcentaje": "25%", "nota": 6.8}], "semestre": "Semestre 1 (Pre) 2022"}, {"nombre": "FISICA I", "nota_final": 4.7, "id_curso": "01003084", "componentes": [{"nombre": "Parcial", "porcentaje": "15%", "nota": 6.2}, {"nombre": "Parcial", "porcentaje": "15%", "nota": 6.3}, {"nombre": "Parcial", "porcentaje": "20%", "nota": 1.3}, {"nombre": "Parcial", "porcentaje": "20%", "nota": 6.0}, {"nombre": "Parcial", "porcentaje": "30%", "nota": 4.6}], "semestre": "Semestre 1 (Pre) 2022"}, {"nombre": "CIRCUITOS DIGITALES", "nota_final": 6.2, "id_curso": "01003088", "componentes": [{"nombre": "Parcial", "porcentaje": "25%", "nota": 5.3}, {"nombre": "Parcial", "porcentaje": "25%", "nota": 7.0}, {"nombre": "Parcial", "porcentaje": "25%", "nota": 6.3}, {"nombre": "Parcial", "porcentaje": "25%", "nota": 6.2}], "semestre": "Semestre 1 (Pre) 2022"}, {"nombre": "INGLÉS II", "nota_final": 6.0, "id_curso": "01005759", "componentes": [{"nombre": "Parcial", "porcentaje": "50%", "nota": 6.0}, {"nombre": "Parcial", "porcentaje": "50%", "nota": 6.0}], "semestre": "Semestre 2 (Pre) 2021"}, {"nombre": "COMPRENSIÓN LECTORA Y PROD. DE TEXTOS", "nota_final": 5.1, "id_curso": "01003083", "componentes": [{"nombre": "Parcial", "porcentaje": "25%", "nota": 5.3}, {"nombre": "Parcial", "porcentaje": "25%", "nota": 5.5}, {"nombre": "Parcial", "porcentaje": "25%", "nota": 3.0}, {"nombre": "Parcial", "porcentaje": "25%", "nota": 6.5}], "semestre": "Semestre 2 (Pre) 2021"}, {"nombre": "CALCULO II", "nota_final": 6.0, "id_curso": "01003081", "componentes": [{"nombre": "Parcial", "porcentaje": "20%", "nota": 6.6}, {"nombre": "Parcial", "porcentaje": "20%", "nota": 5.5}, {"nombre": "Parcial", "porcentaje": "30%", "nota": 5.9}, {"nombre": "Parcial", "porcentaje": "30%", "nota": 6.0}], "semestre": "Semestre 2 (Pre) 2021"}, {"nombre": "PROGRAMACIÓN", "nota_final": 6.6, "id_curso": "01003082", "componentes": [{"nombre": "Parcial", "porcentaje": "20%", "nota": 7.0}, {"nombre": "Parcial", "porcentaje": "20%", "nota": 7.0}, {"nombre": "Parcial", "porcentaje": "20%", "nota": 5.8}, {"nombre": "Parcial", "porcentaje": "40%", "nota": 6.5}], "semestre": "Semestre 2 (Pre) 2021"}, {"nombre": "GESTIÓN INFORMÁTICA I", "nota_final": 6.2, "id_curso": "01003116", "componentes": [{"nombre": "Parcial", "porcentaje": "20%", "nota": 6.8}, {"nombre": "Parcial", "porcentaje": "20%", "nota": 5.2}, {"nombre": "Parcial", "porcentaje": "30%", "nota": 5.8}, {"nombre": "Parcial", "porcentaje": "30%", "nota": 7.0}], "semestre": "Semestre 1 (Pre) 2026"}, {"nombre": "FORM. Y EVAL. DE PROYECTOS INFORMÁTICOS", "nota_final": 5.8, "id_curso": "01003115", "componentes": [{"nombre": "Parcial", "porcentaje": "25%", "nota": 3.6}, {"nombre": "Parcial", "porcentaje": "35%", "nota": 6.7}, {"nombre": "Parcial", "porcentaje": "40%", "nota": 6.3}], "semestre": "Semestre 1 (Pre) 2026"}, {"nombre": "SISTEMAS DISTRIBUIDOS", "nota_final": null, "id_curso": "01003119", "componentes": [{"nombre": "Parcial", "porcentaje": "30%", "nota": 5.2}, {"nombre": "Parcial", "porcentaje": "30%", "nota": null}, {"nombre": "Parcial", "porcentaje": "40%", "nota": null}], "semestre": "Semestre 1 (Pre) 2026"}, {"nombre": "INGENIERÍA DE SOFTWARE II", "nota_final": 6.2, "id_curso": "01003118", "componentes": [{"nombre": "Parcial", "porcentaje": "20%", "nota": 6.5}, {"nombre": "Parcial", "porcentaje": "20%", "nota": 6.3}, {"nombre": "Parcial", "porcentaje": "30%", "nota": 6.0}, {"nombre": "Parcial", "porcentaje": "30%", "nota": 6.2}], "semestre": "Semestre 1 (Pre) 2026"}, {"nombre": "CALIDAD Y PRODUCTIVIDAD DE SOFTWARE", "nota_final": 5.1, "id_curso": "01003117", "componentes": [{"nombre": "Parcial", "porcentaje": "20%", "nota": 5.0}, {"nombre": "Parcial", "porcentaje": "25%", "nota": 3.3}, {"nombre": "Parcial", "porcentaje": "25%", "nota": 5.6}, {"nombre": "Parcial", "porcentaje": "30%", "nota": 6.1}], "semestre": "Semestre 1 (Pre) 2026"}, {"nombre": "IMPLEMENTACION DE LA R.S.E. Y NUEVOS DES", "nota_final": 6.2, "id_curso": "01005358", "componentes": [{"nombre": "Parcial", "porcentaje": "30%", "nota": 7.0}, {"nombre": "Parcial", "porcentaje": "30%", "nota": 5.2}, {"nombre": "Parcial", "porcentaje": "40%", "nota": 6.4}], "semestre": "Semestre 1 (Pre) 2026"}]};